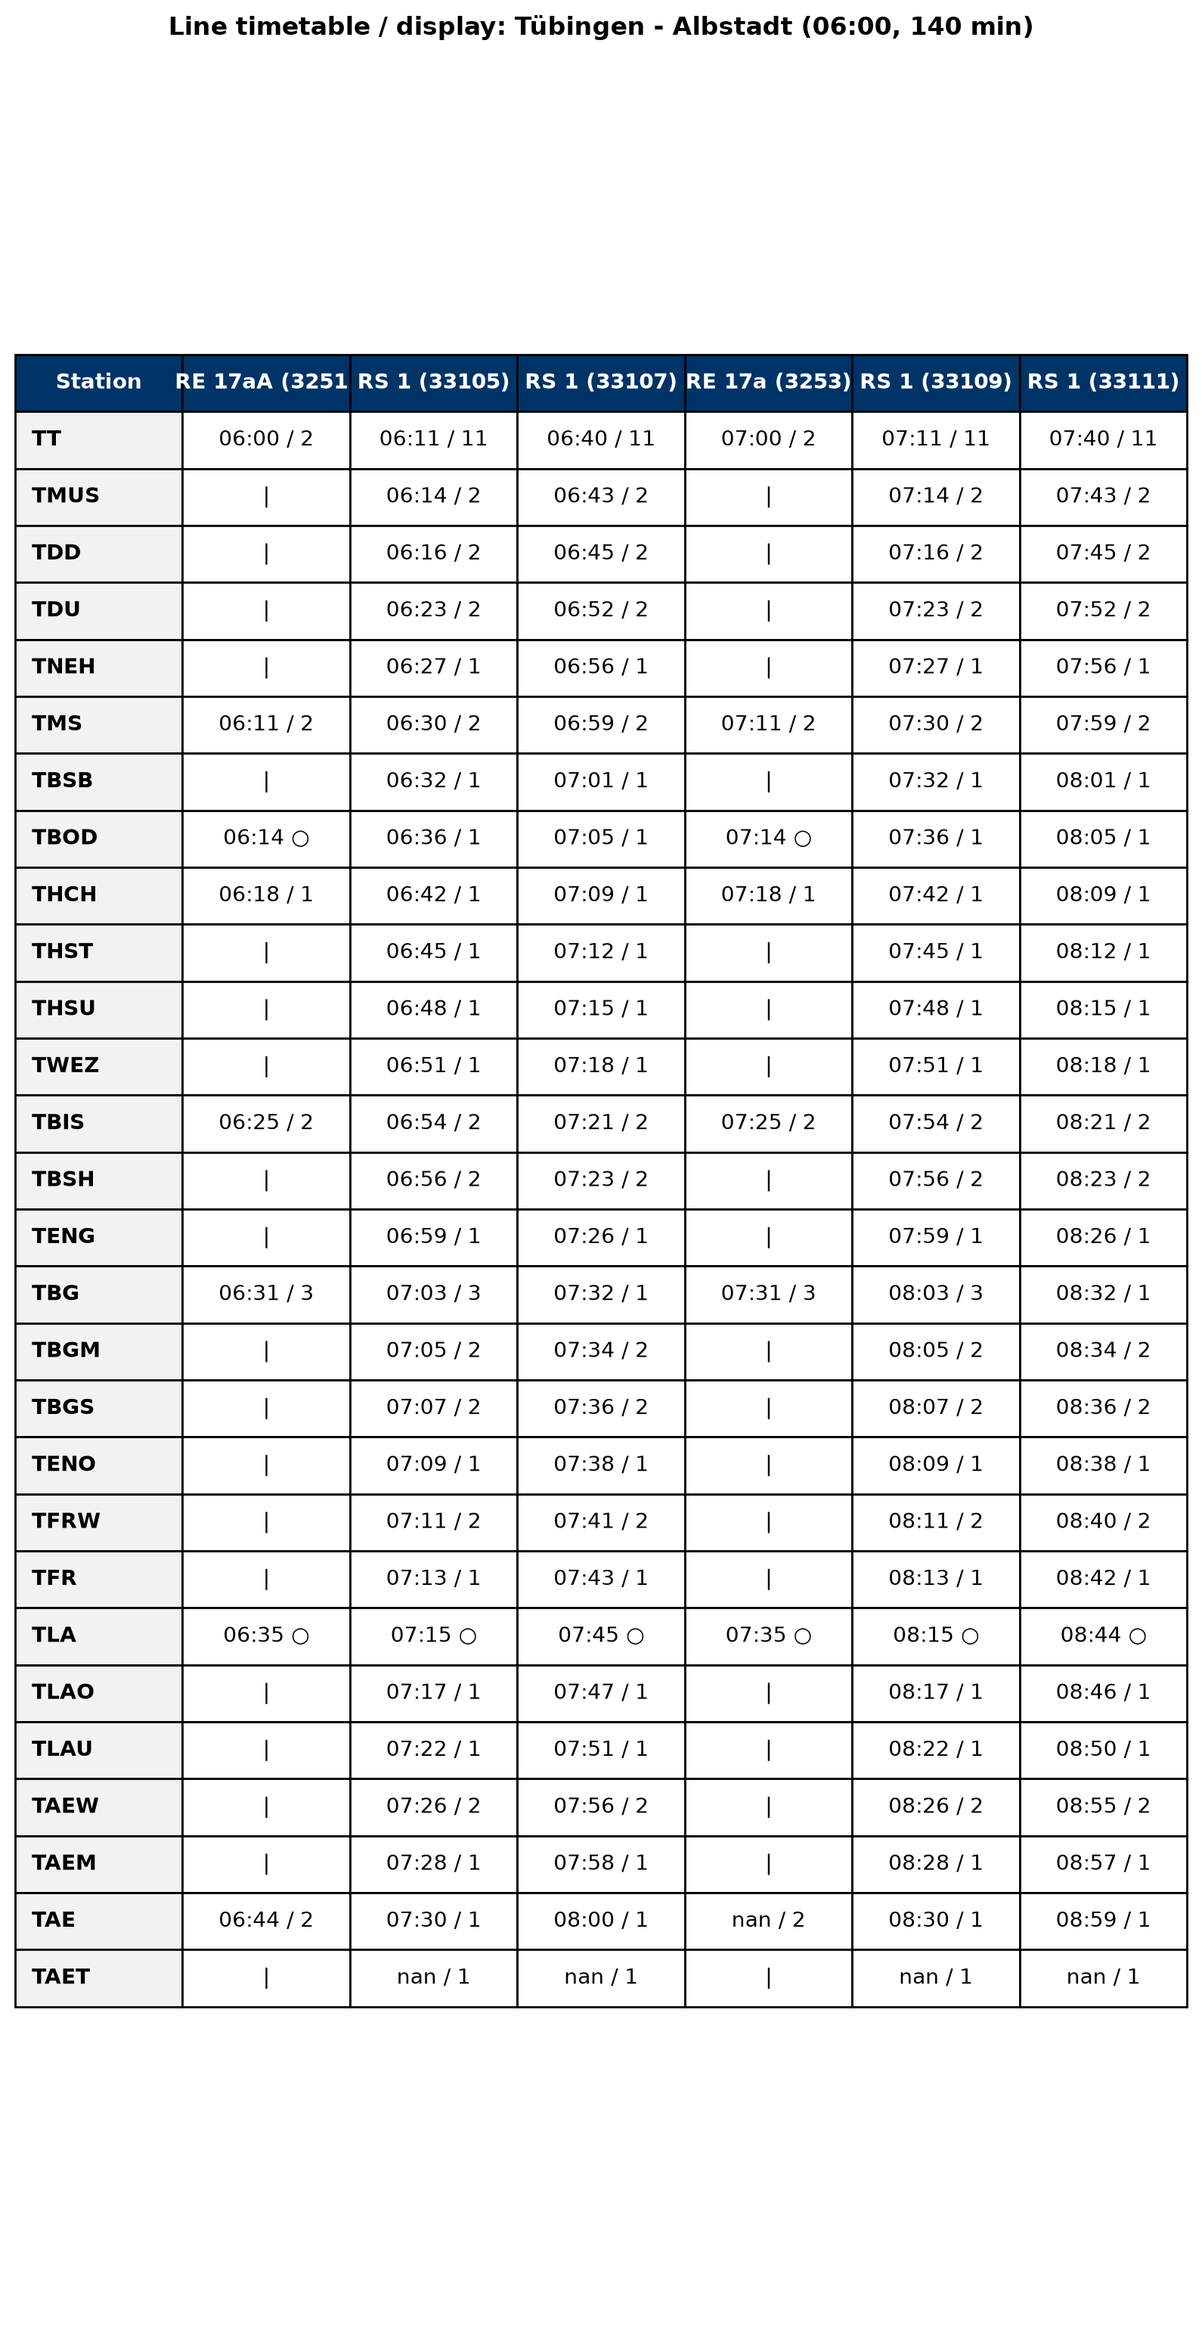
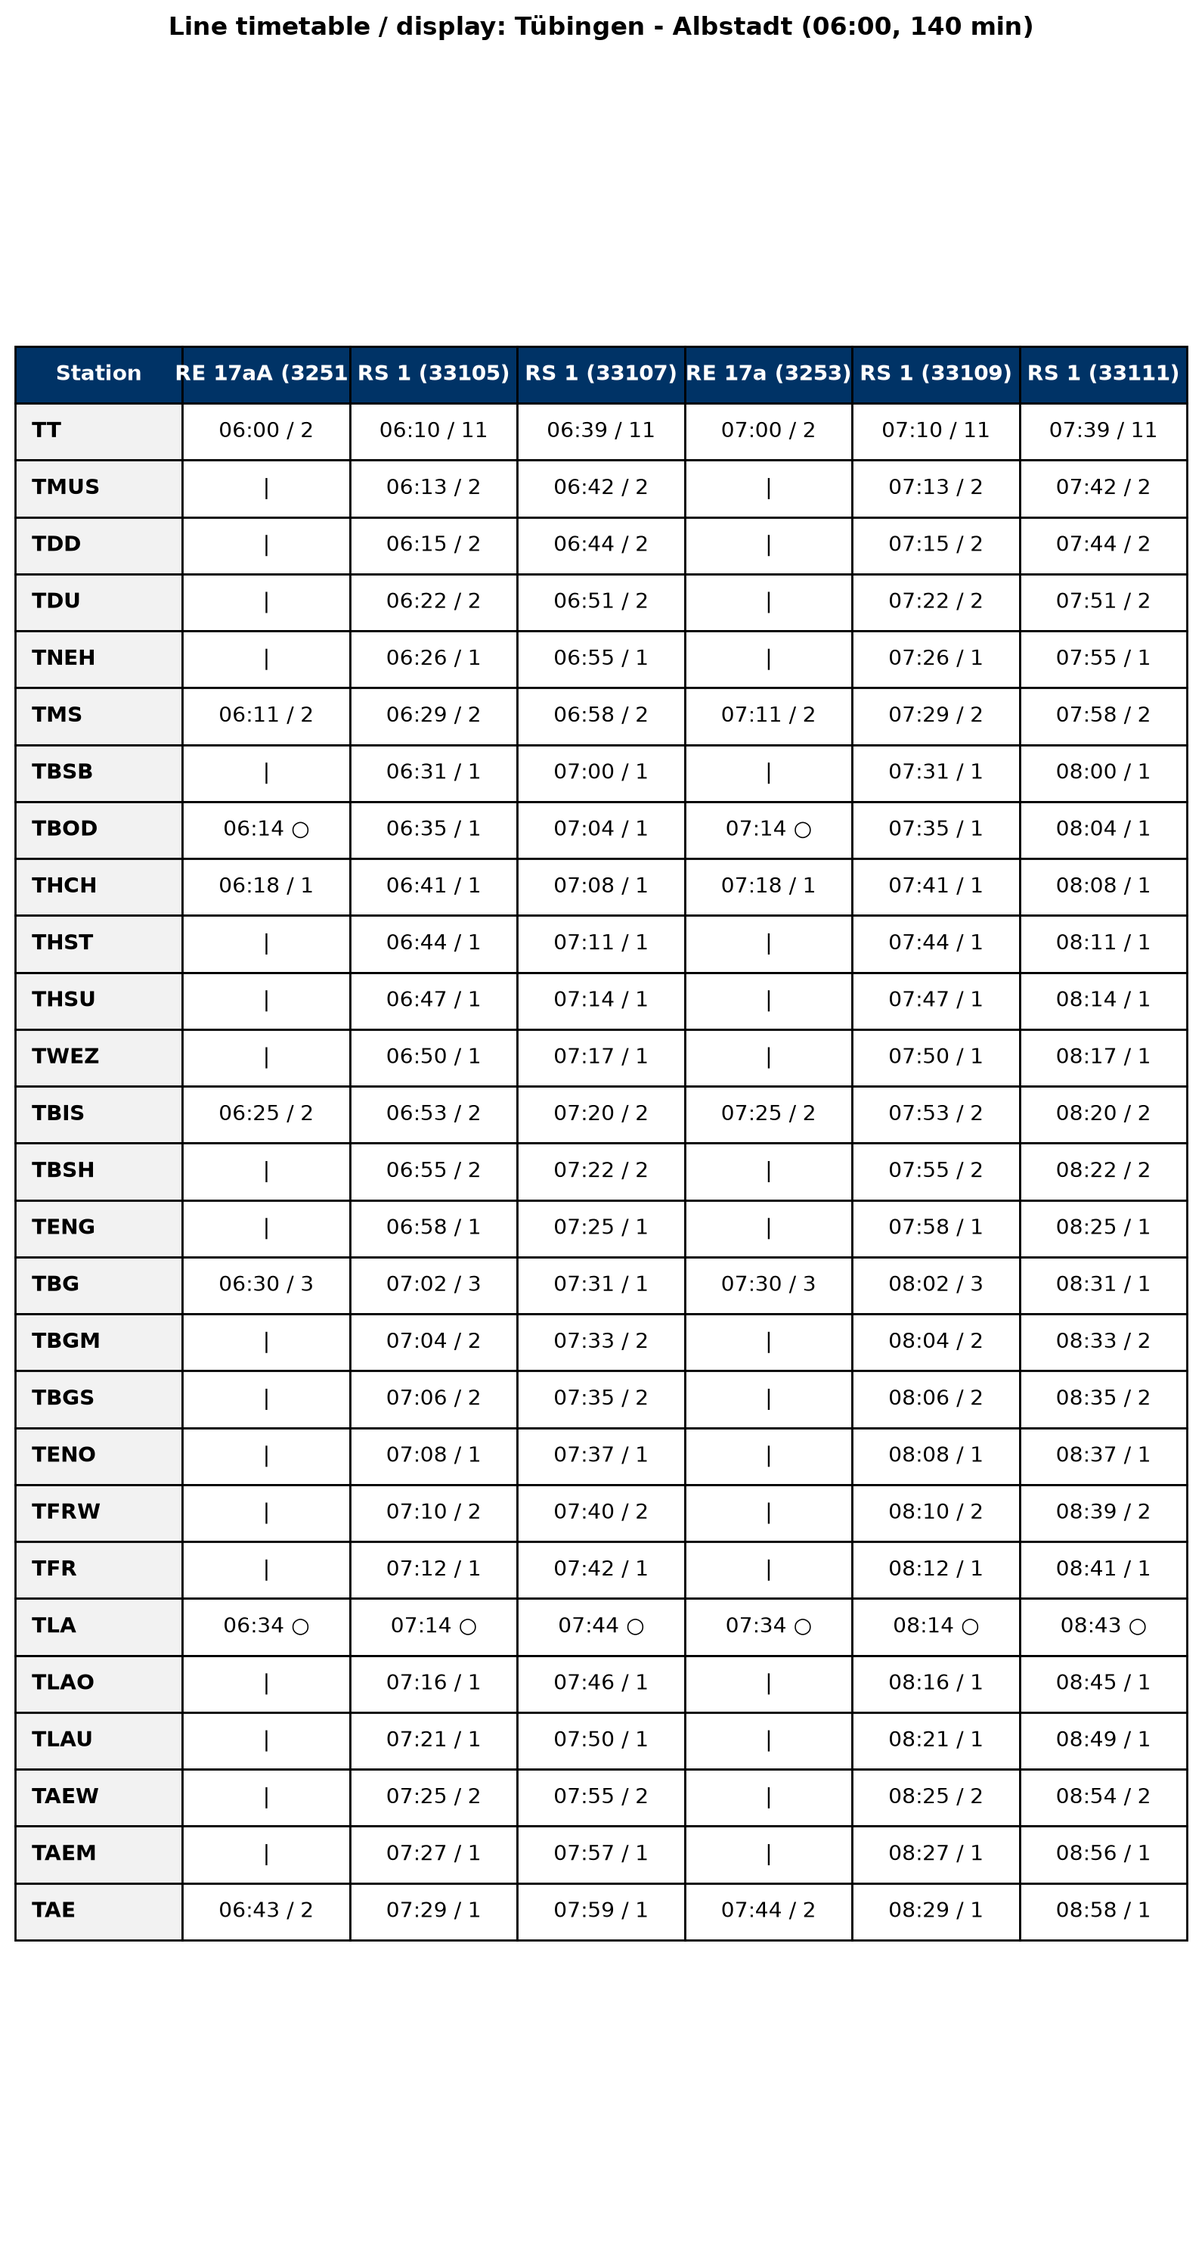
RE now both depart at :00 yeyyy

Changed region(s): [[0.0308, 0.156, 0.9862, 0.8738]]

diff --git a/main.py b/main.py
@@ -33,14 +33,14 @@ RS1_TUEBINGEN_ALBSTADT = {
         {"station_id": station_code_to_id("TAEW"), "arrival": 3, "departure": 1, "platform": 2},
         {"station_id": station_code_to_id("TAEM"), "arrival": 1, "departure": 1, "platform": 1},
         {"station_id": station_code_to_id("TAE"), "arrival": 1, "departure": 1, "platform": 1},
-        {"station_id": station_code_to_id("TAET"), "arrival": 1, "departure": None, "platform": 1},
+        {"station_id": station_code_to_id("TAET"), "arrival": 1, "departure": 1, "platform": 1},
     ]
 }
 
 RS1_ALBSTADT_TUEBINGEN = {
     "name": "RS 1",
     "stops": [
-        {"station_id": station_code_to_id("TAET"), "arrival": None, "departure": 0, "platform": 1},
+        {"station_id": station_code_to_id("TAET"), "arrival": 0, "departure": 0, "platform": 1},
         {"station_id": station_code_to_id("TAE"), "arrival": 1, "departure": 1, "platform": 1},
         {"station_id": station_code_to_id("TAEM"), "arrival": 1, "departure": 1, "platform": 1},
         {"station_id": station_code_to_id("TAEW"), "arrival": 1, "departure": 1, "platform": 1},
@@ -124,22 +124,6 @@ RS2_MOESSINGEN_RTS = {
     ]
 }
 
-RE17B_TUEBINGEN_ROTTENBURG = {
-    "name": "RE 17b",
-    "stops": [
-        {"station_id": station_code_to_id("TT"), "arrival": None, "departure": 1},
-        {"station_id": station_code_to_id("TRT"), "arrival": 7, "departure": None},
-    ]
-}
-
-RE17B_ROTTENBURG_TUEBINGEN = {
-    "name": "RE 17b",
-    "stops": [
-        {"station_id": station_code_to_id("TRT"), "arrival": None, "departure": 1},
-        {"station_id": station_code_to_id("TT"), "arrival": 7, "departure": None},
-    ]
-}
-
 RS3_TUEBINGEN_ROTTENBURG = {
     "name": "RS 3",
     "stops": [
@@ -197,40 +181,6 @@ RS4_HERRENBERG_TUEBINGEN = {
         {"station_id": station_code_to_id("TUJS"), "arrival": 1, "departure": 1, "platform": 2},
         {"station_id": station_code_to_id("TTW"), "arrival": 3, "departure": 1, "platform": 2},
         {"station_id": station_code_to_id("TT"), "arrival": 2, "departure": None},
-    ]
-}
-
-RE17A_REUTLINGEN_ALBSTADT = {
-    "name": "RE 17a",
-    "stops": [
-        {"station_id": station_code_to_id("TRE"), "arrival": None, "departure": 1, "platform": 2},
-        {"station_id": station_code_to_id("RBE"), "arrival": 3, "departure": 0, "platform": 1},
-        {"station_id": station_code_to_id("TKI"), "arrival": 1, "departure": 0, "platform": 1},
-        {"station_id": station_code_to_id("TT"), "arrival": 5, "departure": 2},
-        {"station_id": station_code_to_id("TMS"), "arrival": 10, "departure": 1, "platform": 2},
-        {"station_id": station_code_to_id("TBOD"), "arrival": 3, "departure": 0, "platform": 1},
-        {"station_id": station_code_to_id("THCH"), "arrival": 3, "departure": 1, "platform": 1},
-        {"station_id": station_code_to_id("TBIS"), "arrival": 6, "departure": 1, "platform": 2},
-        {"station_id": station_code_to_id("TBG"), "arrival": 5, "departure": 1, "platform": 2},
-        {"station_id": station_code_to_id("TLA"), "arrival": 4, "departure": 0, "platform": 1},
-        {"station_id": station_code_to_id("TAE"), "arrival": 6, "departure": None, "platform": 2},
-    ]
-}
-
-RE17A_ALBSTADT_REUTLINGEN = {
-    "name": "RE 17a",
-    "stops": [
-        {"station_id": station_code_to_id("TAE"), "arrival": None, "departure": 1},
-        {"station_id": station_code_to_id("TLAU"), "arrival": 3, "departure": 0, "platform": 2},
-        {"station_id": station_code_to_id("TBG"), "arrival": 8, "departure": 1, "platform": 1},
-        {"station_id": station_code_to_id("TBIS"), "arrival": 4, "departure": 1,"platform": 1},
-        {"station_id": station_code_to_id("THCH"), "arrival": 6, "departure": 1, "platform": 2},
-        {"station_id": station_code_to_id("TBOD"), "arrival": 3, "departure": 0, "platform": 1},
-        {"station_id": station_code_to_id("TMS"), "arrival": 3, "departure": 1, "platform": 1},
-        {"station_id": station_code_to_id("TT"), "arrival": 10, "departure": 2},
-        {"station_id": station_code_to_id("TKI"), "arrival": 5, "departure": 0, "platform": 2},
-        {"station_id": station_code_to_id("RBE"), "arrival": 1, "departure": 0, "platform": 2},
-        {"station_id": station_code_to_id("TRE"), "arrival": 3, "departure": None, "platform": 1},
     ]
 }
 
@@ -301,6 +251,56 @@ RE_REUTLINGEN_TUEBINGEN = {
         {"station_id": station_code_to_id("RBE"), "arrival": 3, "departure": 0, "platform": 1},
         {"station_id": station_code_to_id("TKI"), "arrival": 1, "departure": 0, "platform": 1},
         {"station_id": station_code_to_id("TT"), "arrival": 5, "departure": None}
+    ]
+}
+
+RE17A_REUTLINGEN_ALBSTADT = {
+    "name": "RE 17a",
+    "stops": [
+        {"station_id": station_code_to_id("TRE"), "arrival": None, "departure": 1, "platform": 2},
+        {"station_id": station_code_to_id("RBE"), "arrival": 3, "departure": 0, "platform": 1},
+        {"station_id": station_code_to_id("TKI"), "arrival": 1, "departure": 0, "platform": 1},
+        {"station_id": station_code_to_id("TT"), "arrival": 5, "departure": 2},
+        {"station_id": station_code_to_id("TMS"), "arrival": 10, "departure": 1, "platform": 2},
+        {"station_id": station_code_to_id("TBOD"), "arrival": 3, "departure": 0, "platform": 1},
+        {"station_id": station_code_to_id("THCH"), "arrival": 3, "departure": 1, "platform": 1},
+        {"station_id": station_code_to_id("TBIS"), "arrival": 6, "departure": 1, "platform": 2},
+        {"station_id": station_code_to_id("TBG"), "arrival": 4, "departure": 1, "platform": 3},
+        {"station_id": station_code_to_id("TLA"), "arrival": 4, "departure": 0, "platform": 1},
+        {"station_id": station_code_to_id("TAE"), "arrival": 6, "departure": None, "platform": 2},
+    ]
+}
+
+RE17A_ALBSTADT_REUTLINGEN = {
+    "name": "RE 17a",
+    "stops": [
+        {"station_id": station_code_to_id("TAE"), "arrival": None, "departure": 1},
+        {"station_id": station_code_to_id("TLAU"), "arrival": 3, "departure": 0, "platform": 2},
+        {"station_id": station_code_to_id("TBG"), "arrival": 8, "departure": 1, "platform": 2},
+        {"station_id": station_code_to_id("TBIS"), "arrival": 4, "departure": 1,"platform": 1},
+        {"station_id": station_code_to_id("THCH"), "arrival": 6, "departure": 1, "platform": 2},
+        {"station_id": station_code_to_id("TBOD"), "arrival": 3, "departure": 0, "platform": 1},
+        {"station_id": station_code_to_id("TMS"), "arrival": 3, "departure": 1, "platform": 1},
+        {"station_id": station_code_to_id("TT"), "arrival": 10, "departure": 2},
+        {"station_id": station_code_to_id("TKI"), "arrival": 5, "departure": 0, "platform": 2},
+        {"station_id": station_code_to_id("RBE"), "arrival": 1, "departure": 0, "platform": 2},
+        {"station_id": station_code_to_id("TRE"), "arrival": 3, "departure": None, "platform": 1},
+    ]
+}
+
+RE17B_TUEBINGEN_ROTTENBURG = {
+    "name": "RE 17b",
+    "stops": [
+        {"station_id": station_code_to_id("TT"), "arrival": None, "departure": 1},
+        {"station_id": station_code_to_id("TRT"), "arrival": 7, "departure": None},
+    ]
+}
+
+RE17B_ROTTENBURG_TUEBINGEN = {
+    "name": "RE 17b",
+    "stops": [
+        {"station_id": station_code_to_id("TRT"), "arrival": None, "departure": 1},
+        {"station_id": station_code_to_id("TT"), "arrival": 7, "departure": None},
     ]
 }
 
@@ -408,8 +408,8 @@ MEX_19312.change_platform(station_code_to_id("TRE"), 2)
 _MEX_TRAINS = [MEX_19301, MEX_19302, MEX_19303, MEX_19304, MEX_19305, MEX_19306, MEX_19307, MEX_19308, MEX_19309, MEX_19310, MEX_19311, MEX_19312]
 
 ## RE 17a
-RE_3250 = Train.from_blueprint(3250, RE17A_ALBSTADT_REUTLINGEN, "RE 17a", "5:16", "LPPLPPL", "REGIONAL", 160)
-RE_3250.set_origin(station_code_to_id("TAEA"), 1, platform=1)
+RE_3250 = Train.from_blueprint(3250, RE17A_ALBSTADT_REUTLINGEN, "RE 17a", "5:15", "LPPLPPL", "REGIONAL", 160)
+RE_3250.set_origin(station_code_to_id("TAEA"), 1, platform=2)
 RE_3250.change_platform(station_code_to_id("TAE"), 2)
 RE_3250.set_ending(station_code_to_id("RTU"), 1, platform=1)
 RE_3250.change_platform(station_code_to_id("TT"), 3)
@@ -420,8 +420,8 @@ RE_3251.change_platform(station_code_to_id("TT"), 2)
 RE_3251.change_platform(station_code_to_id("TBG"), 3)
 RE_3251.extend_stop(station_code_to_id("TAE"), 3)
 
-RE_3252 = Train.from_blueprint(3252, RE17A_ALBSTADT_REUTLINGEN, "RE 17a", "6:16", "LPPLPPL", "REGIONAL", 160)
-RE_3252.set_origin(station_code_to_id("TAEA"), 1, platform=1)
+RE_3252 = Train.from_blueprint(3252, RE17A_ALBSTADT_REUTLINGEN, "RE 17a", "6:15", "LPPLPPL", "REGIONAL", 160)
+RE_3252.set_origin(station_code_to_id("TAEA"), 1, platform=2)
 RE_3252.change_platform(station_code_to_id("TBG"), 2)
 RE_3252.set_ending(station_code_to_id("RTU"), 1, platform=1)
 RE_3252.change_platform(station_code_to_id("TT"), 3)
@@ -429,9 +429,11 @@ RE_3252.change_platform(station_code_to_id("TT"), 3)
 RE_3253 = Train.from_blueprint(3253, RE17A_REUTLINGEN_ALBSTADT, "RE 17a", "6:47", "LPPLPPL", "REGIONAL", 160)
 RE_3253.set_origin("RTU", 1, platform=2)
 RE_3253.change_platform(station_code_to_id("TT"), 2)
+RE_3253.set_ending(station_code_to_id("TAEA"), 1, platform=2)
+RE_3253.extend_stop(station_code_to_id("TAE"), 3)
 RE_3253.change_platform(station_code_to_id("TBG"), 3)
 
-RE_3254 = Train.from_blueprint(3254, RE17A_ALBSTADT_REUTLINGEN, "RE 17a", "7:15", "LPPLPPL", "REGIONAL", 160)
+RE_3254 = Train.from_blueprint(3254, RE17A_ALBSTADT_REUTLINGEN, "RE 17a", "7:14", "LPPLPPL", "REGIONAL", 160)
 RE_3254.change_platform(station_code_to_id("TT"), 3)
 RE_3254.change_platform(station_code_to_id("TAE"), 2)
 RE_3254.change_platform(station_code_to_id("TBG"), 2)
@@ -463,26 +465,26 @@ RE_19704.change_platform(station_code_to_id("TT"), 3)
 _RE17_TRAINS = [RE_3250, RE_3251, RE_3252, RE_3253, RE_19701, RE_19702, RE_19703, RE_19704]
 
 ## S1 Trains
-S1_33101 = Train.from_blueprint(33101, RS1_TUEBINGEN_ALBSTADT, "RS 1", "5:10", "LPL")
+S1_33101 = Train.from_blueprint(33101, RS1_TUEBINGEN_ALBSTADT, "RS 1", "5:09", "LPL")
 S1_33101.set_origin(station_code_to_id("TTBW"), 2, platform=1)
 S1_33101.change_platform(station_code_to_id("TT"), 11)
 S1_33101.extend_stop(station_code_to_id("TLAU"), 1)
 
-S1_33103 = Train.from_blueprint(33103, RS1_TUEBINGEN_ALBSTADT, "RS 1", "5:39", "LPL")
+S1_33103 = Train.from_blueprint(33103, RS1_TUEBINGEN_ALBSTADT, "RS 1", "5:38", "LPL")
 S1_33103.set_origin(station_code_to_id("TTBW"), 2, platform=1)
 S1_33103.change_platform(station_code_to_id("TT"), 11)
 S1_33103.extend_stop(station_code_to_id("TBG"), 2) # Overtake
 S1_33103.change_platform(station_code_to_id("TBG"), 1)
-S1_33103.extend_stop(station_code_to_id("TFRW"), 1)
+#S1_33103.extend_stop(station_code_to_id("TFRW"), 1)
 S1_33103.extend_stop(station_code_to_id("THCH"), -2)
 S1_33103.extend_stop(station_code_to_id("TAEW"), 1)
 
-S1_33105 = Train.from_blueprint(33105, RS1_TUEBINGEN_ALBSTADT, "RS 1", "6:10", "LPLPL")
+S1_33105 = Train.from_blueprint(33105, RS1_TUEBINGEN_ALBSTADT, "RS 1", "6:09", "LPLPL")
 S1_33105.set_origin(station_code_to_id("TTBW"), 2, platform=1)
 S1_33105.change_platform(station_code_to_id("TT"), 11)
 S1_33105.extend_stop(station_code_to_id("TLAU"), 1)
 
-S1_33107 = Train.from_blueprint(33107, RS1_TUEBINGEN_ALBSTADT, "RS 1", "6:39", "LPLPL")
+S1_33107 = Train.from_blueprint(33107, RS1_TUEBINGEN_ALBSTADT, "RS 1", "6:38", "LPLPL")
 S1_33107.set_origin(station_code_to_id("TTBW"), 2, platform=1)
 S1_33107.change_platform(station_code_to_id("TT"), 11)
 S1_33107.extend_stop(station_code_to_id("TBG"), 2)
@@ -491,12 +493,12 @@ S1_33107.extend_stop(station_code_to_id("TFRW"), 1)
 S1_33107.extend_stop(station_code_to_id("THCH"), -2)
 S1_33107.extend_stop(station_code_to_id("TAEW"), 1)
 
-S1_33109 = Train.from_blueprint(33109, RS1_TUEBINGEN_ALBSTADT, "RS 1", "7:10", "LPLPL")
+S1_33109 = Train.from_blueprint(33109, RS1_TUEBINGEN_ALBSTADT, "RS 1", "7:09", "LPLPL")
 S1_33109.set_origin(station_code_to_id("TTBW"), 2, platform=1)
 S1_33109.change_platform(station_code_to_id("TT"), 11)
 S1_33109.extend_stop(station_code_to_id("TLAU"), 1)
 
-S1_33111 = Train.from_blueprint(33111, RS1_TUEBINGEN_ALBSTADT, "RS 1", "7:39", "LPLPL")
+S1_33111 = Train.from_blueprint(33111, RS1_TUEBINGEN_ALBSTADT, "RS 1", "7:38", "LPLPL")
 S1_33111.set_origin(station_code_to_id("TTBW"), 2, platform=1)
 S1_33111.change_platform(station_code_to_id("TT"), 11)
 S1_33111.extend_stop(station_code_to_id("TBG"), 2)
@@ -505,39 +507,39 @@ S1_33103.extend_stop(station_code_to_id("TFRW"), 1)
 S1_33111.extend_stop(station_code_to_id("THCH"), -2)
 S1_33111.extend_stop(station_code_to_id("TAEW"), 1)
 
-S1_33102 = Train.from_blueprint(33102, RS1_ALBSTADT_TUEBINGEN, "RS 1", "5:21", "LPL")
+S1_33102 = Train.from_blueprint(33102, RS1_ALBSTADT_TUEBINGEN, "RS 1", "5:20", "LPL")
 S1_33102.change_platform(station_code_to_id("TT"), 6)
 S1_33102.set_ending(station_code_to_id("TTBW"), 2)
 S1_33102.extend_stop(station_code_to_id("TBG"), 1)
 S1_33102.extend_stop(station_code_to_id("TBOD"), 1) # Kreuzung mit RE
 
-S1_33104 = Train.from_blueprint(33104, RS1_ALBSTADT_TUEBINGEN, "RS 1", "5:50", "LPLPL")
+S1_33104 = Train.from_blueprint(33104, RS1_ALBSTADT_TUEBINGEN, "RS 1", "5:49", "LPLPL")
 S1_33104.change_platform(station_code_to_id("TT"), 6)
 S1_33104.set_ending(station_code_to_id("TTBW"), 2)
 S1_33104.extend_stop(station_code_to_id("TFRW"), 1)
 S1_33104.extend_stop(station_code_to_id("TBOD"), 3) # overtake by RE
 
-S1_33106 = Train.from_blueprint(33106, RS1_ALBSTADT_TUEBINGEN, "RS 1", "6:21", "LPLPL")
+S1_33106 = Train.from_blueprint(33106, RS1_ALBSTADT_TUEBINGEN, "RS 1", "6:20", "LPLPL")
 S1_33106.change_platform(station_code_to_id("TT"), 6)
 S1_33106.set_ending(station_code_to_id("TTBW"), 2)
 S1_33106.extend_stop(station_code_to_id("TLA"), 1)
 S1_33106.change_platform(station_code_to_id("TLA"), 2)
 S1_33106.extend_stop(station_code_to_id("TBOD"), 1)
 
-S1_33108 = Train.from_blueprint(33108, RS1_ALBSTADT_TUEBINGEN, "RS 1", "6:50", "LPLPL")
+S1_33108 = Train.from_blueprint(33108, RS1_ALBSTADT_TUEBINGEN, "RS 1", "6:49", "LPLPL")
 S1_33108.change_platform(station_code_to_id("TT"), 6)
 S1_33108.set_ending(station_code_to_id("TTBW"), 2)
 S1_33108.extend_stop(station_code_to_id("TFRW"), 1)
 S1_33108.extend_stop(station_code_to_id("TBOD"), 3) # overtake by RE
 
-S1_33110 = Train.from_blueprint(33110, RS1_ALBSTADT_TUEBINGEN, "RS 1", "7:21", "LPLPL")
+S1_33110 = Train.from_blueprint(33110, RS1_ALBSTADT_TUEBINGEN, "RS 1", "7:20", "LPLPL")
 S1_33110.change_platform(station_code_to_id("TT"), 6)
 S1_33110.set_ending(station_code_to_id("TTBW"), 2)
 S1_33110.extend_stop(station_code_to_id("TLA"), 1)
 S1_33110.change_platform(station_code_to_id("TLA"), 2)
 S1_33110.extend_stop(station_code_to_id("TBOD"), 1)
 
-S1_33112 = Train.from_blueprint(33112, RS1_ALBSTADT_TUEBINGEN, "RS 1", "7:50", "LPLPL")
+S1_33112 = Train.from_blueprint(33112, RS1_ALBSTADT_TUEBINGEN, "RS 1", "7:49", "LPLPL")
 S1_33112.change_platform(station_code_to_id("TT"), 6)
 S1_33112.set_ending(station_code_to_id("TTBW"), 2)
 S1_33112.extend_stop(station_code_to_id("TFRW"), 1)
@@ -566,8 +568,8 @@ def main():
     plot_route_timetable(timetable_df, selected_section, "06:00", 140)
 
     generate_line_timetable(TRAINS, selected_section, "06:00", 140)
-    generate_line_timetable(TRAINS, "Betzingen - Tübingen", "06:00", 140)
-    #generate_line_timetable(TRAINS, "Albstadt - Tübingen", "5:00", 140)
+    # generate_line_timetable(TRAINS, "Betzingen - Tübingen", "06:00", 140)
+    generate_line_timetable(TRAINS, "Albstadt - Tübingen", "5:00", 140)
     print(RE_3251.timetable())
     print(RE_19703.timetable())
     export_trains_txt(TRAINS)

diff --git a/diagrams.py b/diagrams.py
@@ -209,12 +209,13 @@ def generate_line_timetable(
     if df.empty:
         raise ValueError(f"No visits found for section {section.name!r}")
 
-    first_station = section.station_codes[0]
-    if isinstance(first_station, int):
-        first_rows = df[df["Station ID"] == first_station]
-    else:
-        first_rows = df[df["Station code"] == first_station]
-    first_rows = first_rows.copy()
+    # A train may enter the section after its configured endpoint. Use its
+    # first actual visit so partial services are included as well.
+    first_rows = (
+        df.sort_values(["Train number", "_section_position"])
+        .drop_duplicates("Train number", keep="first")
+        .copy()
+    )
     first_rows["departure_dt"] = pd.to_datetime(
         first_rows["Departure"], format="%H:%M", errors="coerce"
     )

diff --git a/sections.py b/sections.py
@@ -30,7 +30,7 @@ LINE_SECTIONS = {
                 "TT", "TMUS", "TDD", "TST", "TDU", "TNEH", "TMS",
                 "TBSB", "TBOD", "THCH", "THST", "THSU", "TWEZ", "TBIS",
                 "TBSH", "TENG", "TBG", "TBGM", "TBGS", "TENO", "TFRW",
-                "TFR", "TLA", "TLAO", "TLAU", "TAEW", "TAEM", "TAE", "TAET",
+                "TFR", "TLA", "TLAO", "TLAU", "TAEW", "TAEM", "TAE",
             ),
         ),
         LineSection(

diff --git a/RSNA.md b/RSNA.md
@@ -608,5 +608,5 @@ RE Abfahrt in TAE immer :17
   - Wenn Züge rangiert / gestabled werden sollen auf den Abstellgleisen, geht das nur mit gleichbleibender Zugnummer (und dann entweder mehrere Legs oder selbes Leg)
 
 ### Testrun #2
-- Ebingen Abstellung Gleis 2 non-sink für RE Stabling?
+- Ebingen Abstellung Gleis 2 non-sink für RE Stabling? ✅
 - RE Albstadt - Tü immernoch 1 min late Abfahrt in Tü (planmäßig :01, entweder frühere Ankunft -> shift von ALLEN Zügen probably, oder nur 1 min in TT - unrealistisch...)
